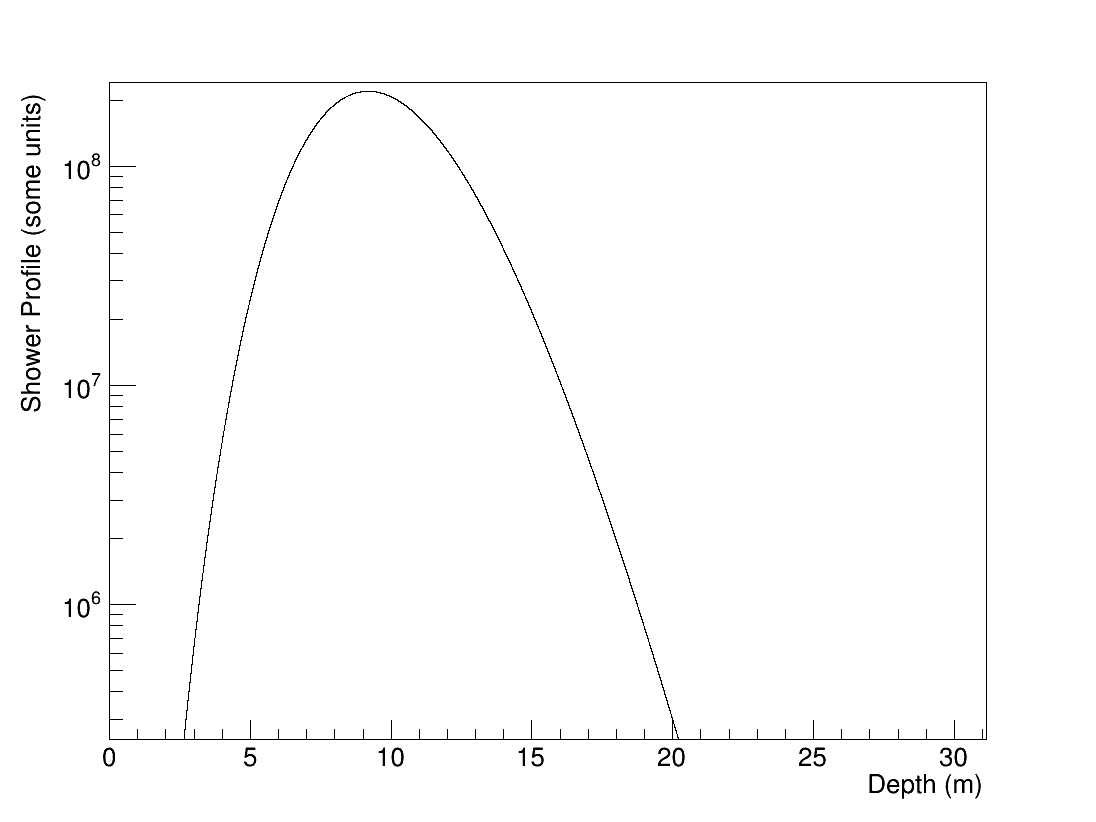
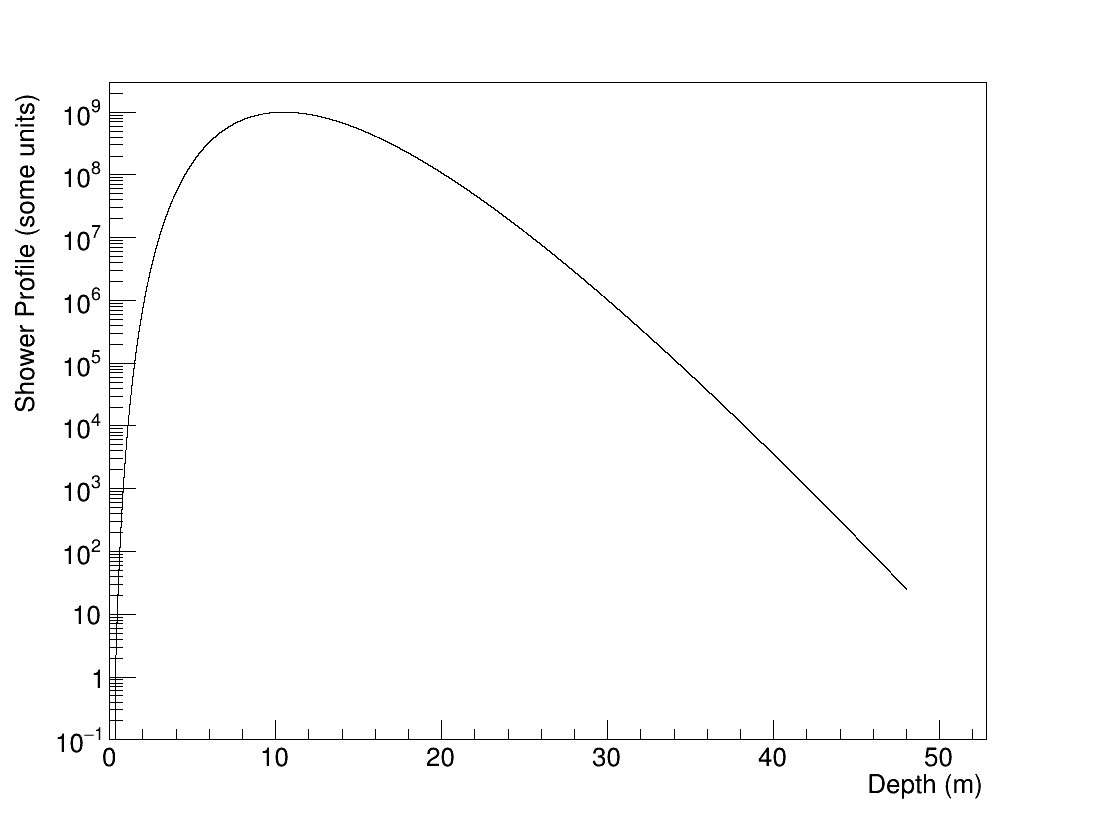
update it once more to be the had shower case Ben wanted me to check

diff --git a/shower_profile/plotShowerProfile.cpp b/shower_profile/plotShowerProfile.cpp
@@ -18,6 +18,7 @@
 #include "TGraph.h"
 #include "TCanvas.h"
 #include "Settings.h"
+#include "TAxis.h"
 
 //AraSim includes
 #include "IceModel.h"
@@ -35,8 +36,8 @@ int main(int argc, char **argv)
 	Signal *signal = new Signal(settings);
 	signal->SetMedium(0);
 
-	double shower_E = 1E18;
-	int shower_mode =0; // 0=EM, 1=HAD
+	double shower_E = 6.08986E18;
+	int shower_mode = 1; // 0=EM, 1=HAD
 	double shower_step_m = 0.001; // also settings->SHOWER_STEP
 	int param_model = 0; // 0=jaime's fit, 1= carl's fit 
 
@@ -52,6 +53,7 @@ int main(int argc, char **argv)
 							depth,
 							Q_shower,
 							LQ);
+	cout<<"Q_shower[0] "<<Q_shower[0]<<endl;
 
 	printf("Size of depth is %d \n", depth.size());
 	// // make plot
@@ -59,6 +61,7 @@ int main(int argc, char **argv)
 	TCanvas *c = new TCanvas("","",1100,850);
 	gr->Draw("ALP");
 	gPad->SetLogy();
+	gr->GetYaxis()->SetRangeUser(0.1,3e9);
 	gr->SetTitle("; Depth (m); Shower Profile (some units)");
 	c->SaveAs("profile_vs_depth.png");
 
